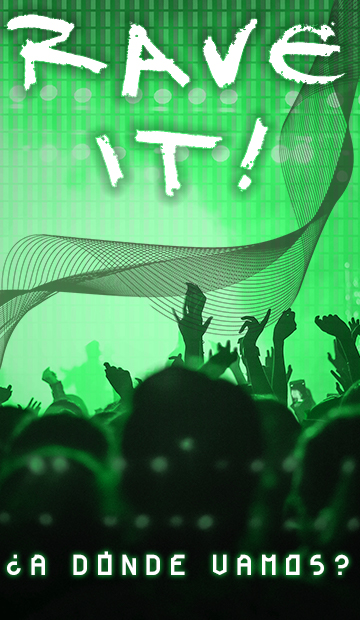
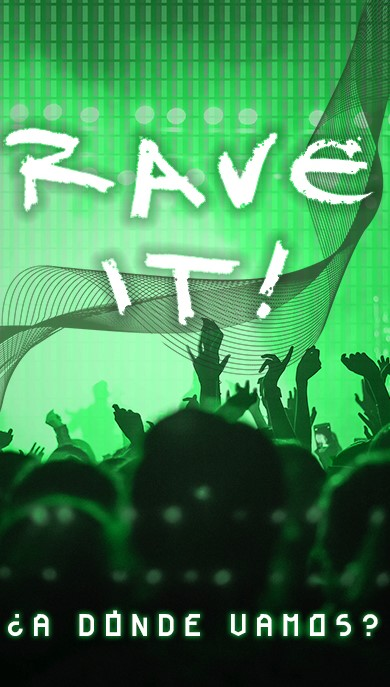
commit

diff --git a/domain/filtros.js b/domain/filtros.js
@@ -1,3 +1,7 @@
+const filtroGenerofield = document.getElementById('Generosel')
+const filtroLugarfield = document.getElementById('Lugarsel')
+const botonFiltro = document.getElementById('filtros')
+
 let EventContenedor = document.getElementById('eventContenedor');
         EventContenedor.innerHTML = ''
 
@@ -8,3 +12,59 @@ let EventContenedor = document.getElementById('eventContenedor');
                 } )
 
         EventContenedor.innerHTML = innerHTMLForEventContenedor;
+
+let filtroPor = Eventosmain;
+
+filtroGenero(); Eventosmain,this.genero = filtroGenerofield.value;
+                
+filtroLugar();  Eventosmain,this.lugar = filtroLugarfield.value;                     
+             
+               
+                
+
+              
+                 
+                 
+                    
+              
+ 
+Eventosmain
+                .filter(Eventomain => Eventomain.filtroGenero())
+               
+Eventosmain
+                .filter(Eventomain => Eventomain.filtroLugar())
+             
+                
+
+function filtroGL() {
+        if(filtroGenerofield.value !=='' && filtroLugarfield.value !==''){
+               filtroGenero() + filtroLugar() ; Eventosmain.forEach(Eventomain => {     
+                innerHTMLForEventContenedor += Eventomain.innerHTMLForEvents()
+                } ) }
+        }
+                                    
+        
+
+console.log()
+
+
+/*
+function filtroGenero(genero) {
+        filtroGenerofield.value == Eventosmain.filter(Eventomain =>Eventomain.genero == genero)
+        }  
+        function filtroLugar(lugar){
+        filtroLugarfield.value == Eventosmain.filter(Eventomain =>Eventomain.lugar == lugar)   
+        }
+        
+        botonFiltro.addEventListener('click',() => {
+                if(filtroGenerofield.value !=='' && filtroLugarfield.value !==''){
+                        filtroGenero() + filtroLugar() ;  Eventosmain.forEach(Eventomain => {     
+                                innerHTMLForEventContenedor += Eventomain.innerHTMLForEvents()
+                                } )
+        
+                }
+        
+        })
+        
+
+*/

diff --git a/domain/eventconstructor.js b/domain/eventconstructor.js
@@ -26,6 +26,21 @@ innerHTMLForEvents(){
             </div>`
 )
 }
+filtroGenero(){
+if (this.genero = filtroGenerofield.value) {
+    return true;}
+ else {
+    return false;}
+}
+
+filtroLugar(){
+    if (this.lugar = filtroLugarfield.value) {
+        return true;}
+     else {
+        return false;}
+    }
+    
+
 }
 let Eventosmain = [
     new Eventomain(1,'WARP', '27/09/2021', 'Montevideo', '23:00', 'Techno'),

diff --git a/mainraveit.html b/mainraveit.html
@@ -62,7 +62,7 @@
                 <option value="Tacuarembo">Tacuarembó</option>
                 <option value="Treintaytres">Treinta y Tres</option>      
         </select>
-            <button class="filtros">Filtrar</button>
+            <button class="filtros" onclick=filtroGL()>Filtrar</button>
         
 
 </nav>

diff --git a/proyecto assets/ri.css b/proyecto assets/ri.css
@@ -23,7 +23,7 @@ body {width:auto;
          }        
                     
 header {
-      background-image:url("raveitcelindex.jpg");
+      background-image:url("raveitHD.png");
       background-repeat: no-repeat;
       background-size: 100% 100%;
       background-position: center;
